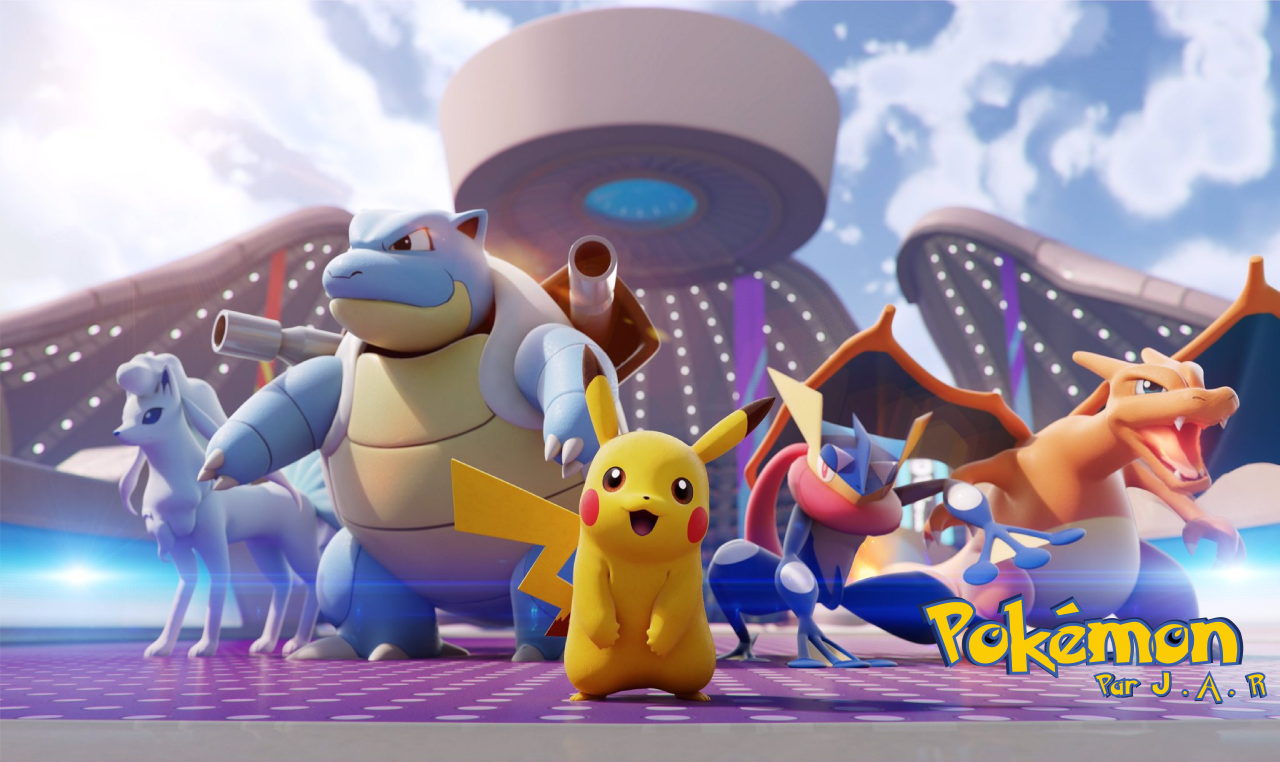
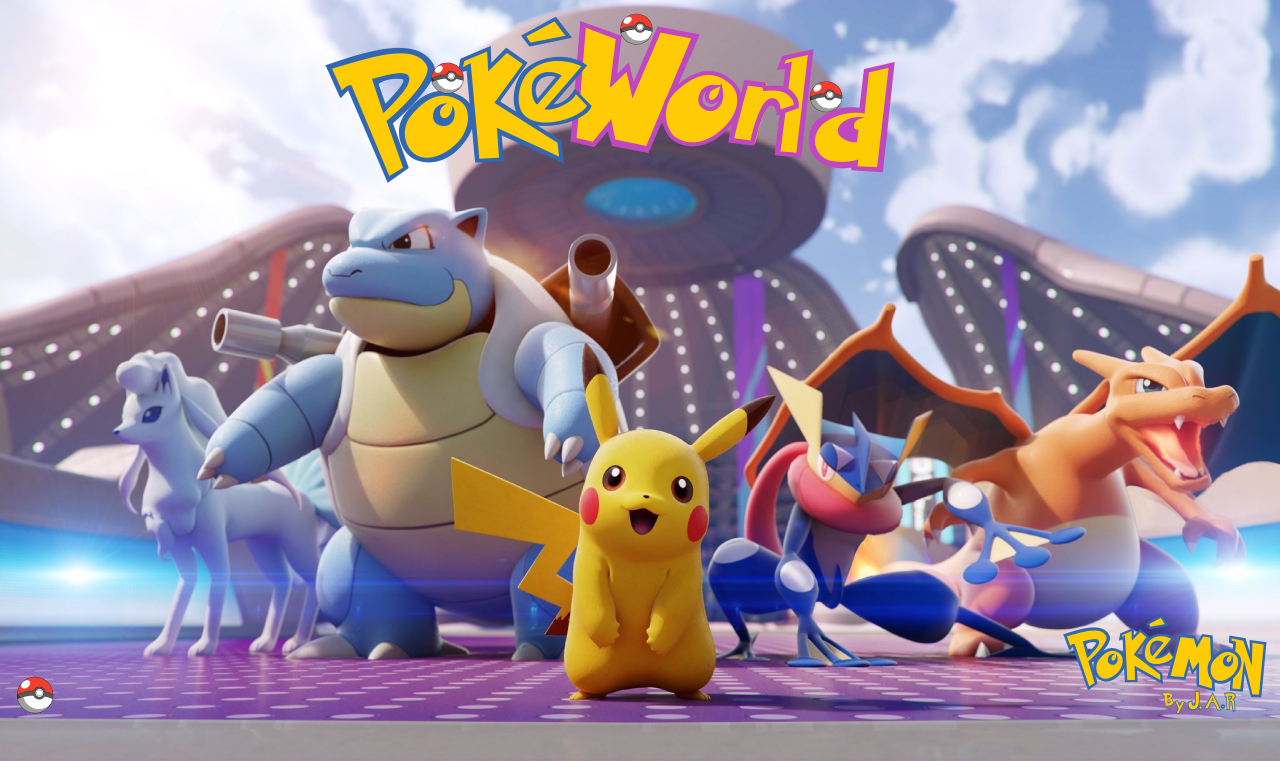
modifie de bg du menu

diff --git a/main.py b/main.py
@@ -70,15 +70,15 @@ def main_menu():
 
         MENU_MOUSE_POS = pygame.mouse.get_pos()
 
-        MENU_TEXT = get_font(100).render("POKÉWORLD", True, "#f9cc36")
+        MENU_TEXT = get_font(100).render("", True, "#f9cc36")
         MENU_RECT = MENU_TEXT.get_rect(center=(640, 100))
 
         PLAY_Bouton = Bouton(image=pygame.image.load("../pokemon/Assets/menu/Play_Rect.png"), pos=(640, 250), 
-                            text_input="NOUVELLE PARTIE", font=get_font(60), base_color="White", hovering_color="#a83676")
+                            text_input="NOUVELLE PARTIE", font=get_font(60), base_color="White", hovering_color="#c047c0")
         REPRENDRE_Bouton = Bouton(image=pygame.image.load("../pokemon/Assets/menu/Reprendre_Rect.png"), pos=(640, 400), 
-                            text_input="REPRENDRE", font=get_font(60), base_color="White", hovering_color="#a83676")
+                            text_input="REPRENDRE", font=get_font(60), base_color="White", hovering_color="#c047c0")
         QUIT_Bouton = Bouton(image=pygame.image.load("../pokemon/Assets/menu/Quitter_Rect.png"), pos=(640, 550), 
-                            text_input="QUITTER", font=get_font(60), base_color="White", hovering_color="#a83676")
+                            text_input="QUITTER", font=get_font(60), base_color="White", hovering_color="#c047c0")
 
         SCREEN.blit(MENU_TEXT, MENU_RECT)
 
